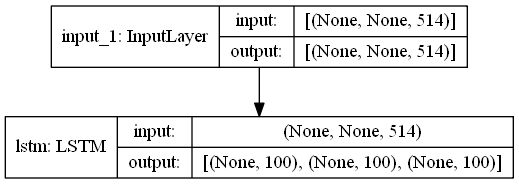
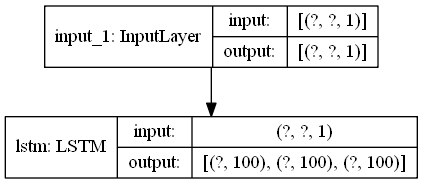
Began working on example for the model

Changed region(s): [[0.0922, 0.0272, 0.922, 0.625], [0.0, 0.625, 1.0, 0.9783], [0.5225, 0.6793, 0.8298, 0.7609]]

diff --git a/model.py b/model.py
@@ -1,12 +1,15 @@
-
 import warnings
 warnings.simplefilter(
     action='ignore', category=FutureWarning)
-import tensorflow as tf
-import tensorflow.python.keras as keras
-from tensorflow.python.keras import Model
-from tensorflow.python.keras.layers import Input, LSTM, Dense
+
 import numpy as np
+import tensorflow as tf
+import tensorflow.keras as keras
+from tensorflow.keras.layers import Input, LSTM, Dense
+from tensorflow.keras import Model
+import sklearn.preprocessing as sk
+
+tf.compat.v1.disable_eager_execution()
 
 
 class Seq2SeqModel:
@@ -24,7 +27,7 @@ class Seq2SeqModel:
         self.model = self.init_training_model()
         # self.init_inference_model()
         a = np.zeros(shape=(1, 1, 514))
-        self.predict_seq(a)
+        # self.predict_seq(a)
 
     def init_training_model(self):
         # Init encoder
@@ -37,17 +40,21 @@ class Seq2SeqModel:
 
         # Init decoder
         self.decoder_input = Input(shape=self.input_shape)
-        self.decoder = LSTM(self.lstm_dim, return_state=True, return_sequences=True)
+        self.decoder = LSTM(self.lstm_dim, return_state=True,
+                            return_sequences=True)
         # Only care about decoder output
-        self.decoder_output, _, _ = self.decoder(self.decoder_input, initial_state=[state_h, state_c])
+        self.decoder_output, _, _ = self.decoder(
+            self.decoder_input, initial_state=[state_h, state_c])
         # Decoder dense layer (final output layer)
         self.decoder_dense = Dense(self.output_size)
         model_output = self.decoder_dense(self.decoder_output)
 
-        model = Model(inputs=[self.encoder_input, self.decoder_input], outputs=model_output)
+        model = Model([self.encoder_input,
+                       self.decoder_input], model_output)
 
-        optimizer = keras.optimizers.SGD(lr=0.1, decay=0, momentum=0.8, nesterov=True)
-        loss = tf.keras.losses.MeanAbsoluteError()
+        optimizer = keras.optimizers.SGD(
+            lr=0.01, decay=0, momentum=0.8, nesterov=True)
+        loss = tf.keras.losses.MeanSquaredError()
 
         model.compile(optimizer=optimizer, loss=loss)
 
@@ -55,8 +62,10 @@ class Seq2SeqModel:
 
     def init_inference_model(self):
         # Init encoder model
-        encoder_model = Model(inputs=self.encoder_input, outputs=self.encoder_states)
-        tf.keras.utils.plot_model(encoder_model, to_file='encoder_model.png', show_shapes=True)
+        encoder_model = Model(inputs=self.encoder_input,
+                              outputs=self.encoder_states)
+        tf.keras.utils.plot_model(
+            encoder_model, to_file='encoder_model.png', show_shapes=True)
 
         # Init decoder model
         decoder_state_input_h = Input(shape=(self.lstm_dim,))
@@ -78,4 +87,18 @@ class Seq2SeqModel:
         hidden_states = encoder_model.predict(input_seq)
 
 
-a = Seq2SeqModel(input_shape=(None, 257 * 2), lstm_dim=100, output_size=257 * 2)
+scaler = sk.MinMaxScaler()
+in_data = np.array([[1], [2], [3], [4], [5], [6]])
+out_data = np.array([[2], [3], [4], [5], [6], [7]])
+
+in_data = scaler.fit_transform(in_data)
+out_data = scaler.fit_transform(out_data)
+
+in_data = np.expand_dims(in_data, axis=0)
+out_data = np.expand_dims(out_data, axis=0)
+a = Seq2SeqModel(input_shape=(None, 1),
+                 lstm_dim=100, output_size=1)
+tf.keras.utils.plot_model(a.model, "test.png")
+a.model.fit(x=[in_data, in_data], y=out_data, epochs=100)
+
+print(a.model.summary())
